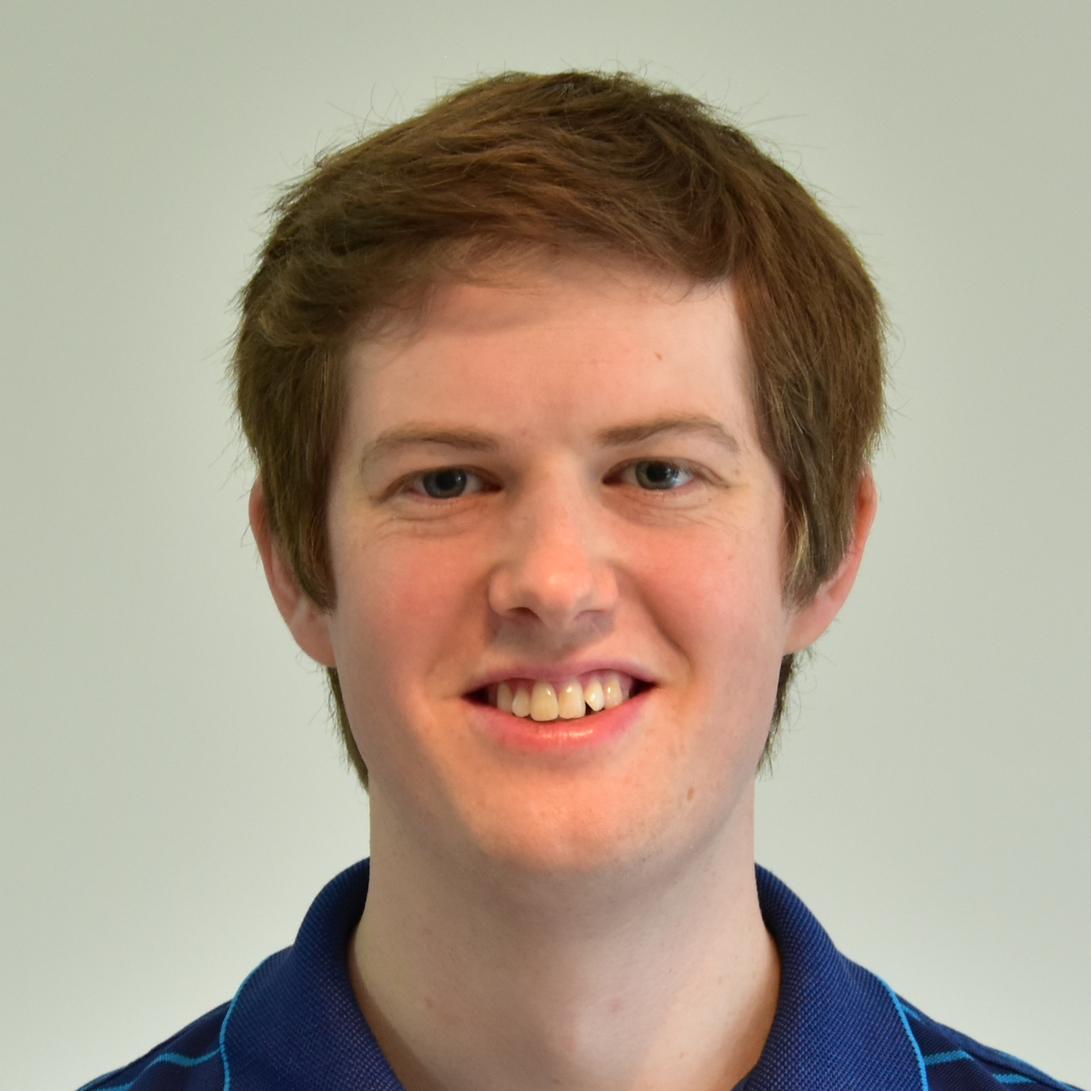
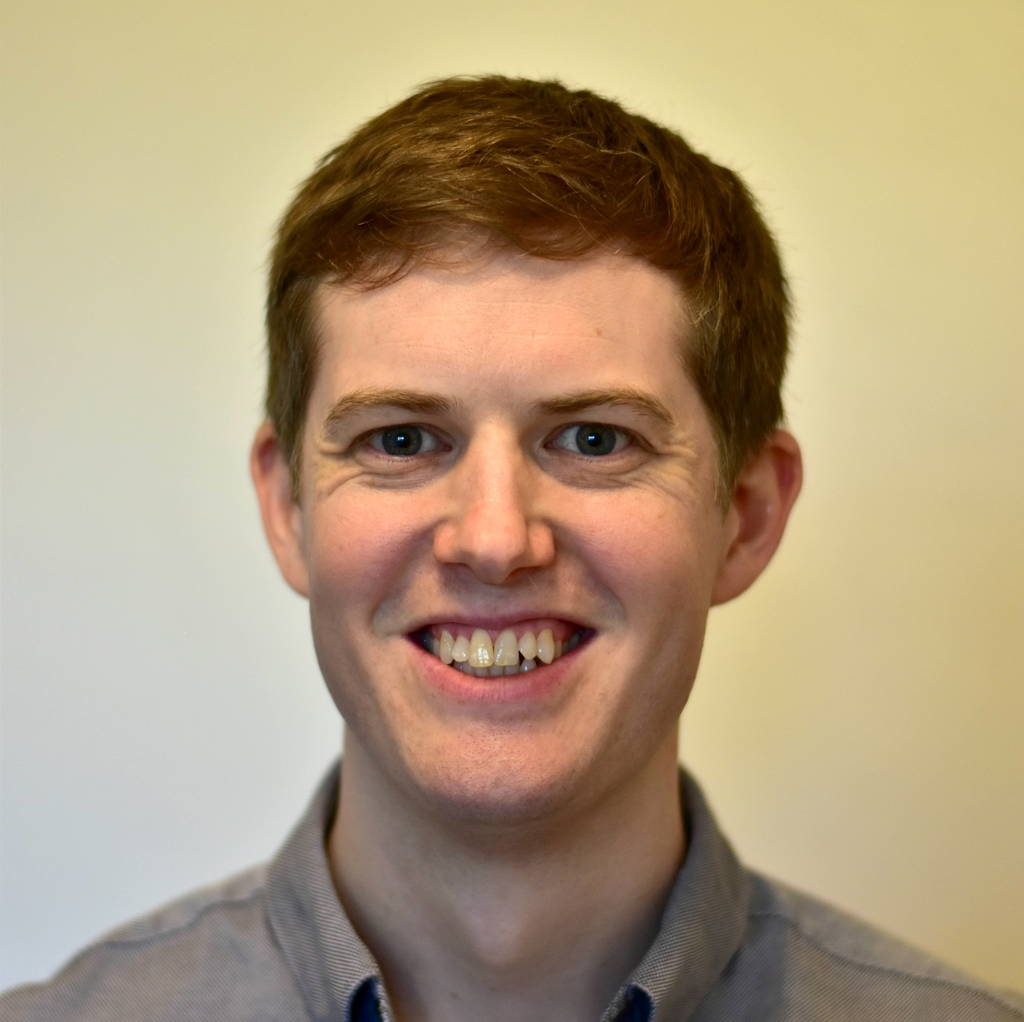
Updated bio and portrait photo.

diff --git a/index.html b/index.html
@@ -118,7 +118,7 @@
 								<h2 class="alt"><strong>About Me</strong></h2>
 							</header>
 							
-							<p>I'm Mike Jones, a post-doctoral researcher working with David Sand at the University of Arizona. I was previously a Juan de la Cierva post-doctoral fellow at the Instituto de Astrofísica de Andalucía working with Lourdes Verdes-Montenegro. My research is in extragalactic astronomy, focusing on low-mass galaxies in the local Universe, in particular those which push the boundaries of our current understanding of galaxy formation. I graduated with a PhD in Astronomy from Cornell University in 2016, where I worked with Martha Haynes and Riccardo Giovanelli on the <a href="http://egg.astro.cornell.edu/alfalfa/">ALFALFA</a> survey. I gained my undergraduate degree in Natural Sciences (Astrophysics) from the University of Cambridge in 2011. I love the outdoors and regularly play football (soccer), cycle, hike, and occasionally rock climb. I am also fond of photography, including astrophotography.</p>
+							<p>I'm Mike Jones, an extragalactic astronomer and a staff scientist working in the Infrared Science Archive (IRSA) at Caltech/IPAC. My research focuses on low-mass galaxies in the local Universe, in particular those which push the boundaries of our current understanding of galaxy formation. I was previously a post-doc at the University of Arizona and a Juan de la Cierva post-doctoral fellow at the Instituto de Astrofísica de Andalucía. I graduated with a PhD in Astronomy from Cornell University in 2016, where I worked with Martha Haynes and Riccardo Giovanelli on the <a href="http://egg.astro.cornell.edu/alfalfa/">ALFALFA</a> survey. I gained my undergraduate degree in Natural Sciences (Astrophysics) from the University of Cambridge in 2011. I love the outdoors and regularly hike and cycle. I am also fond of photography, including astrophotography.</p>
 
 							
 						</div>
